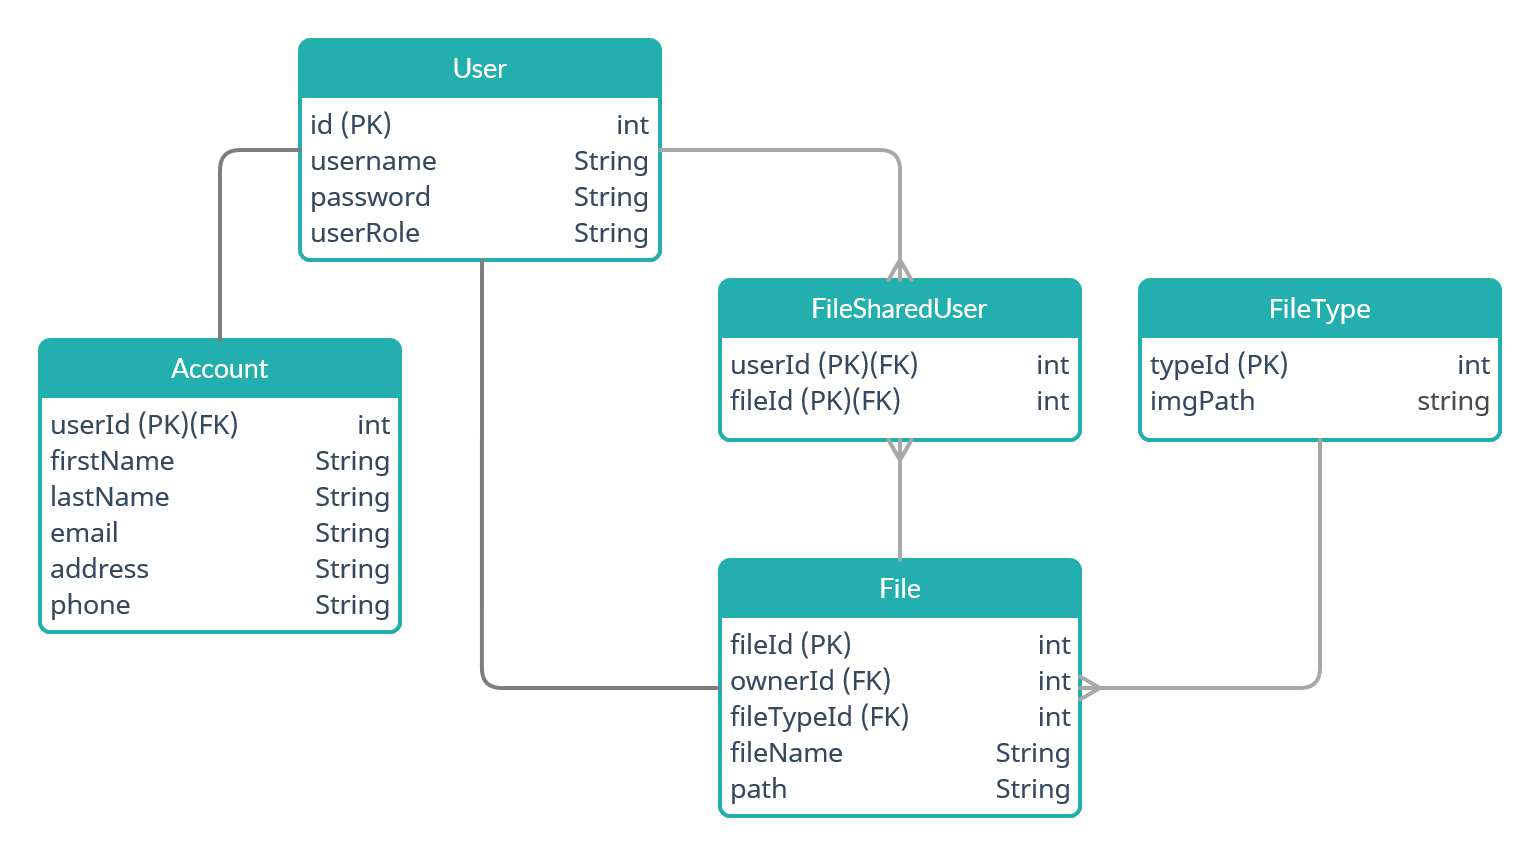
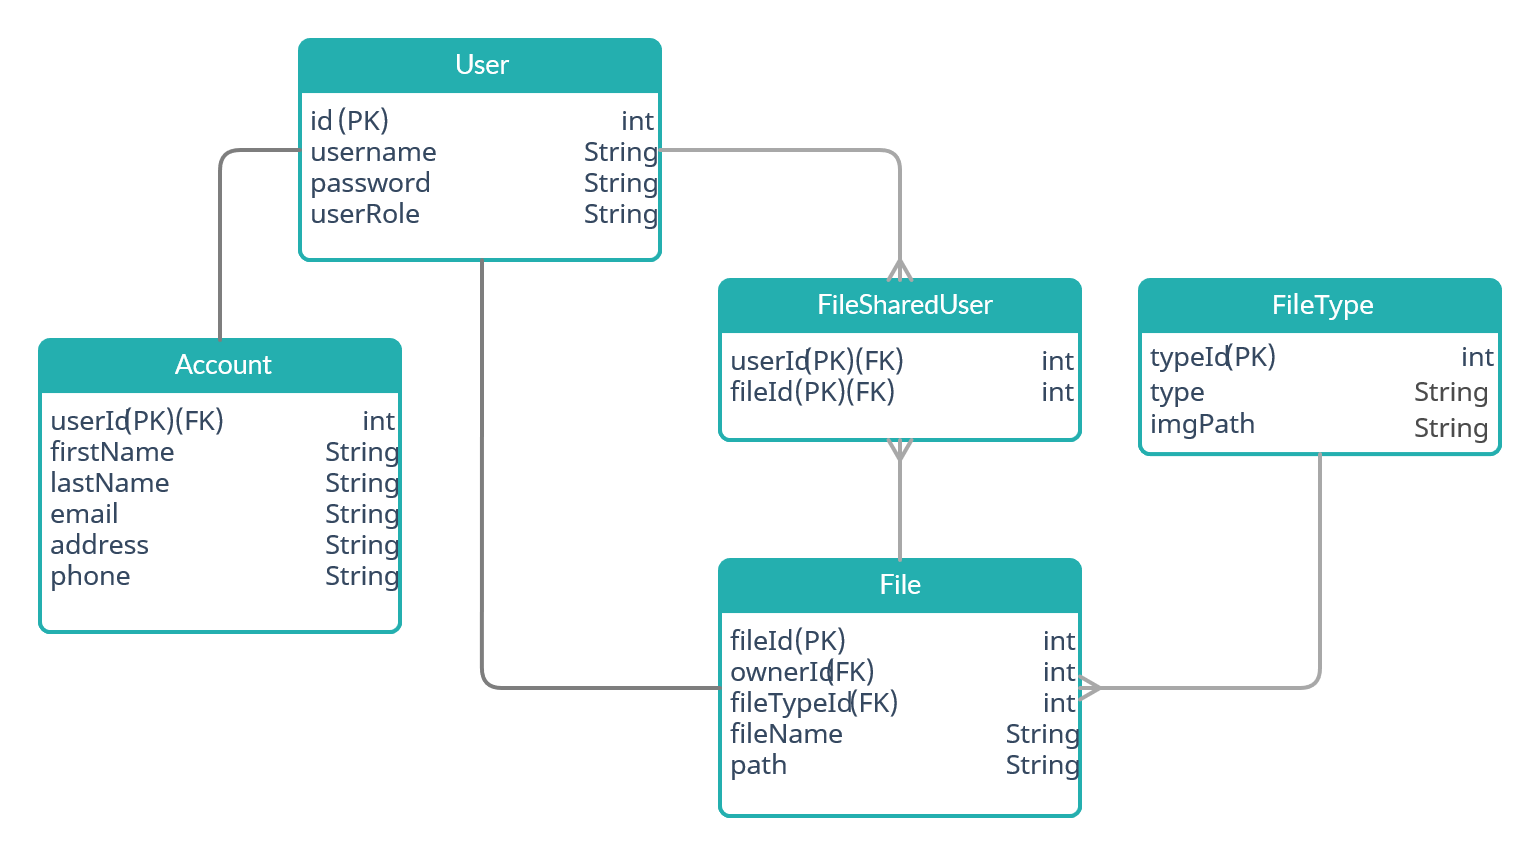
Schema Implementation, Model Creation

diff --git a/src/main/java/org/ericeagan/vvorlds/models/File.java b/src/main/java/org/ericeagan/vvorlds/models/File.java
@@ -1,0 +1,130 @@
+package org.ericeagan.vvorlds.models;
+
+import java.util.Set;
+
+import javax.persistence.Column;
+import javax.persistence.Entity;
+import javax.persistence.GeneratedValue;
+import javax.persistence.GenerationType;
+import javax.persistence.Id;
+import javax.persistence.JoinColumn;
+import javax.persistence.ManyToMany;
+import javax.persistence.ManyToOne;
+import javax.persistence.Table;
+import javax.validation.constraints.NotNull;
+
+@Entity
+@Table(name = "files")
+public class File {
+	@Id @Column(name="fileId")
+	@GeneratedValue(strategy=GenerationType.IDENTITY)
+	int fileId;
+	
+	@ManyToOne
+	@JoinColumn(name="ownerId", nullable=false)
+	@NotNull
+	User owner;
+	
+	@ManyToMany(mappedBy="sharedFiles")
+	Set<User> sharers;
+	
+	@ManyToOne
+	@JoinColumn(name="fileTypeId", nullable=false)
+	FileType fileType;
+	
+	@Column(name="fileName")
+	@NotNull
+	String fileName;
+	
+	@Column(name="path")
+	@NotNull
+	String path;
+
+	public File() {
+		
+	}
+
+	public File(@NotNull User owner, Set<User> sharers, FileType fileType, @NotNull String fileName,
+			@NotNull String path) {
+		super();
+		this.owner = owner;
+		this.sharers = sharers;
+		this.fileType = fileType;
+		this.fileName = fileName;
+		this.path = path;
+	}
+
+	public int getFileId() {
+		return fileId;
+	}
+
+	public User getOwner() {
+		return owner;
+	}
+
+	public void setOwner(User owner) {
+		this.owner = owner;
+	}
+
+	public Set<User> getSharers() {
+		return sharers;
+	}
+
+	public void setSharers(Set<User> sharers) {
+		this.sharers = sharers;
+	}
+
+	public FileType getFileType() {
+		return fileType;
+	}
+
+	public void setFileType(FileType fileType) {
+		this.fileType = fileType;
+	}
+
+	public String getFileName() {
+		return fileName;
+	}
+
+	public void setFileName(String fileName) {
+		this.fileName = fileName;
+	}
+
+	public String getPath() {
+		return path;
+	}
+
+	public void setPath(String path) {
+		this.path = path;
+	}
+
+	@Override
+	public String toString() {
+		return "File [fileId=" + fileId + ", fileName=" + fileName + ", path=" + path + "]";
+	}
+
+	@Override
+	public int hashCode() {
+		final int prime = 31;
+		int result = 1;
+		result = prime * result + ((fileName == null) ? 0 : fileName.hashCode());
+		return result;
+	}
+
+	@Override
+	public boolean equals(Object obj) {
+		if (this == obj)
+			return true;
+		if (obj == null)
+			return false;
+		if (getClass() != obj.getClass())
+			return false;
+		File other = (File) obj;
+		if (fileName == null) {
+			if (other.fileName != null)
+				return false;
+		} else if (!fileName.equals(other.fileName))
+			return false;
+		return true;
+	}
+}

diff --git a/src/main/java/org/ericeagan/vvorlds/models/User.java b/src/main/java/org/ericeagan/vvorlds/models/User.java
@@ -1,13 +1,19 @@
 package org.ericeagan.vvorlds.models;
 
+import java.util.Set;
+
 import javax.persistence.CascadeType;
 import javax.persistence.Column;
 import javax.persistence.Entity;
 import javax.persistence.Id;
+import javax.persistence.JoinTable;
+import javax.persistence.JoinColumn;
+import javax.persistence.ManyToMany;
 import javax.persistence.OneToOne;
 import javax.persistence.PrimaryKeyJoinColumn;
 import javax.persistence.Table;
 import javax.persistence.NamedQuery;
+import javax.persistence.OneToMany;
 import javax.persistence.GeneratedValue;
 import javax.persistence.GenerationType;
 import javax.validation.constraints.NotNull;
@@ -36,6 +42,16 @@ public class User {
 	@OneToOne(mappedBy = "user", cascade = CascadeType.ALL)
 	@PrimaryKeyJoinColumn
 	Account account;
+	
+	@OneToMany(targetEntity = File.class, mappedBy = "owner")
+	private Set<File> ownedFiles;
+	
+	@ManyToMany
+	@JoinTable(
+			  name = "FileSharedUser", 
+			  joinColumns = @JoinColumn(name = "userId"), 
+			  inverseJoinColumns = @JoinColumn(name = "fileId"))
+	private Set<File> sharedFiles;
 	
 	public User() {
 		this.userRole = "ROLE_USER";

diff --git a/src/main/java/org/ericeagan/vvorlds/models/FileType.java b/src/main/java/org/ericeagan/vvorlds/models/FileType.java
@@ -1,0 +1,55 @@
+package org.ericeagan.vvorlds.models;
+
+import javax.persistence.Column;
+import javax.persistence.Entity;
+import javax.persistence.GeneratedValue;
+import javax.persistence.GenerationType;
+import javax.persistence.Id;
+import javax.persistence.Table;
+import javax.validation.constraints.NotNull;
+
+@Entity
+@Table(name = "fileType")
+public class FileType {
+	@Id @Column(name="typeId")
+	@GeneratedValue(strategy=GenerationType.IDENTITY)
+	int typeId;
+	
+	@Column(name="type")
+	@NotNull
+	String type;
+	
+	@Column(name="imgPath")
+	@NotNull
+	String imgPath;
+	
+	public FileType() {
+		
+	}
+
+	public FileType(@NotNull String type, @NotNull String imgPath) {
+		super();
+		this.type = type;
+		this.imgPath = imgPath;
+	}
+
+	public int getTypeId() {
+		return typeId;
+	}
+
+	public String getType() {
+		return type;
+	}
+
+	public void setType(String type) {
+		this.type = type;
+	}
+
+	public String getImgPath() {
+		return imgPath;
+	}
+
+	public void setImgPath(String imgPath) {
+		this.imgPath = imgPath;
+	}
+}
